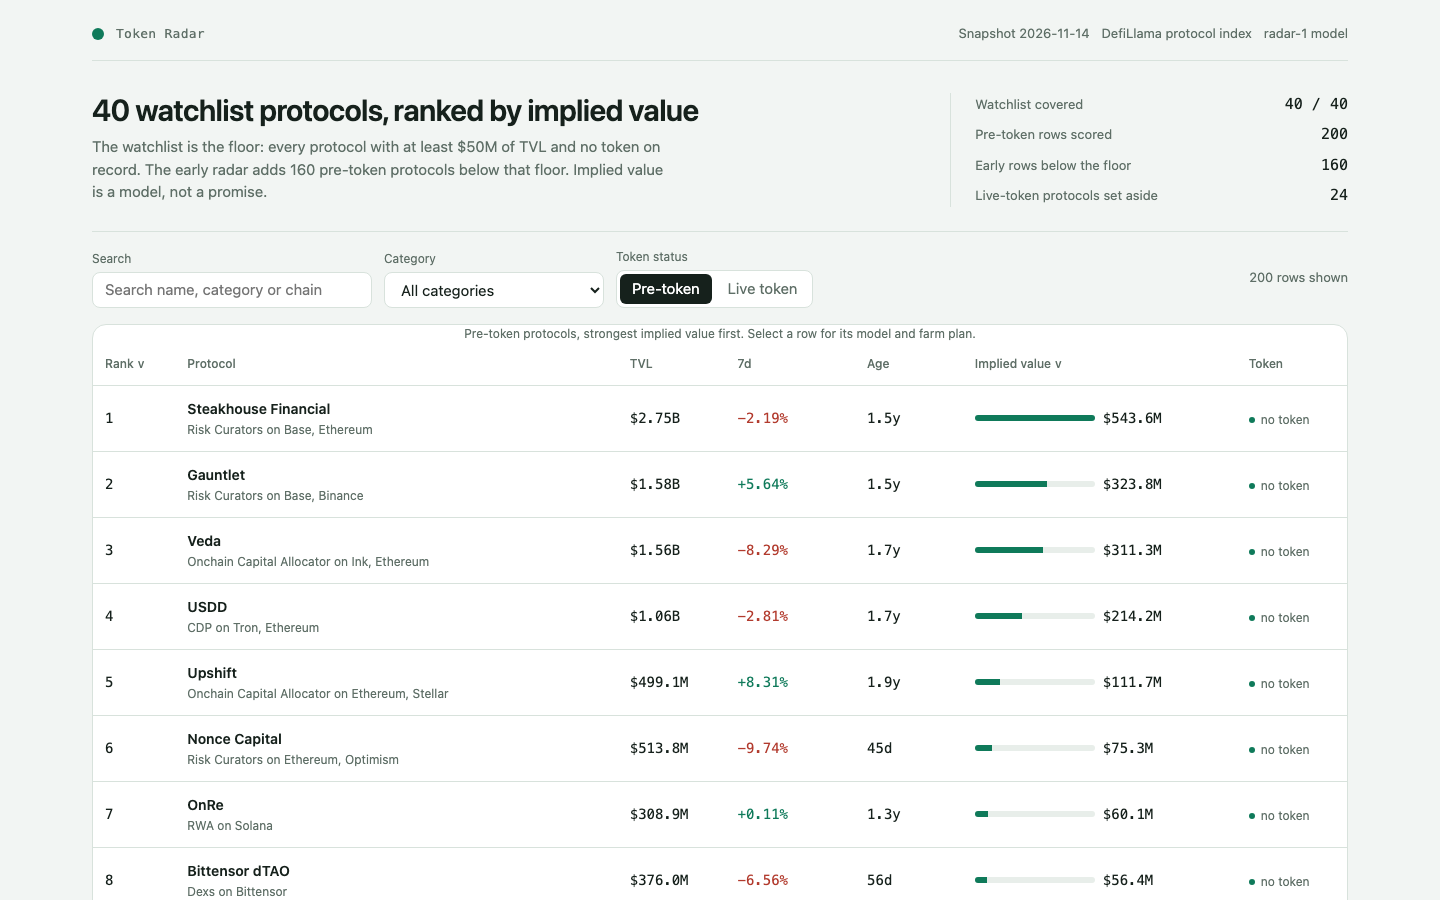
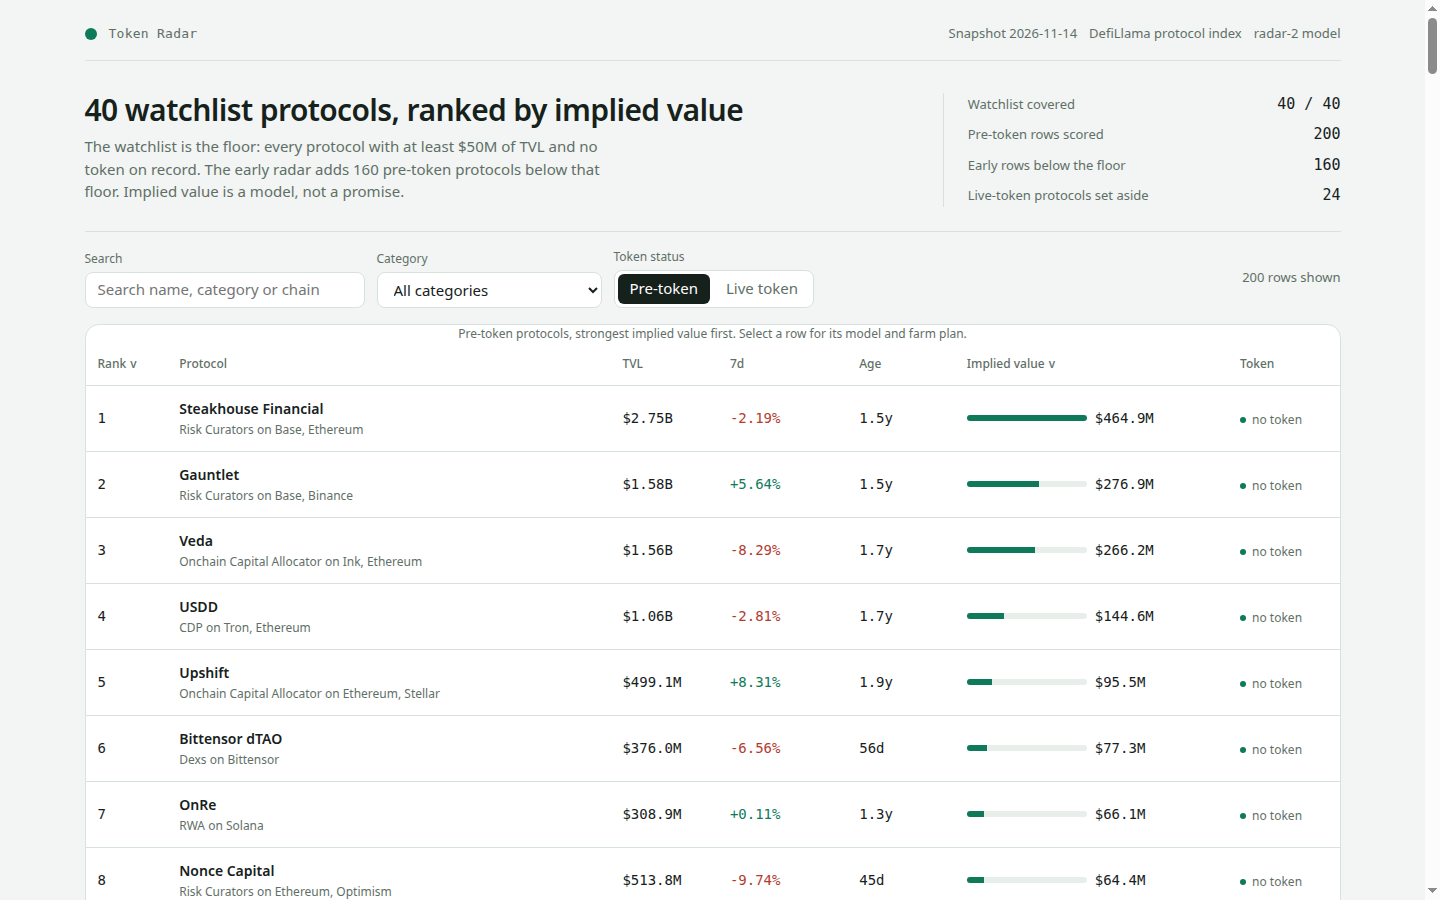
Fix board determinism and line count: round category multiple to 4dp, row-per-line board.json (204 lines)

diff --git a/lib/model.ts b/lib/model.ts
@@ -243,7 +243,10 @@ export function impliedValue(
   const growthMult = 1 + (growthPct / 100) * model.growth_weight;
   const ageForModel = age ?? model.unknown_age_days;
   const maturityMult = model.maturity_floor + (Math.min(Math.max(ageForModel, 0), model.maturity_days) / model.maturity_days) * model.maturity_range;
-  const baseMultiple = multiples ? multipleFor(protocol.category, multiples) : model.base_multiple;
+  // Round the category multiple to 4 decimals before use: board.json stores the rounded value,
+  // and the dashboard recomputes from it, so the two must use the same number or the page
+  // reports a stale-data mismatch on rows whose TVL makes the rounding visible.
+  const baseMultiple = multiples ? round4(multipleFor(protocol.category, multiples)) : model.base_multiple;
   const base = protocol.tvl_usd * baseMultiple;
   const implied = Math.max(1, Math.round(base * growthMult * maturityMult));
   return { implied, growthPct, growthMult, maturityMult, age, baseMultiple };

diff --git a/main.ts b/main.ts
@@ -51,7 +51,10 @@ if (issue !== null) {
 }
 
 mkdirSync(out, { recursive: true });
-writeFileSync(join(out, 'board.json'), `${JSON.stringify({ rows: board })}\n`);
+// One row per line: 200 rows stay inside the 100–4000 line window (a fully
+// indented dump is ~7200 lines and would fail the board's line cap).
+const boardText = `{\n  "rows": [\n${board.map((r) => `    ${JSON.stringify(r)}`).join(',\n')}\n  ]\n}\n`;
+writeFileSync(join(out, 'board.json'), boardText);
 writeFileSync(join(out, 'data.js'), dataScript(radar));
 
 /** Copy one directory's regular files into `to`, skipping names that start with a dot. */
